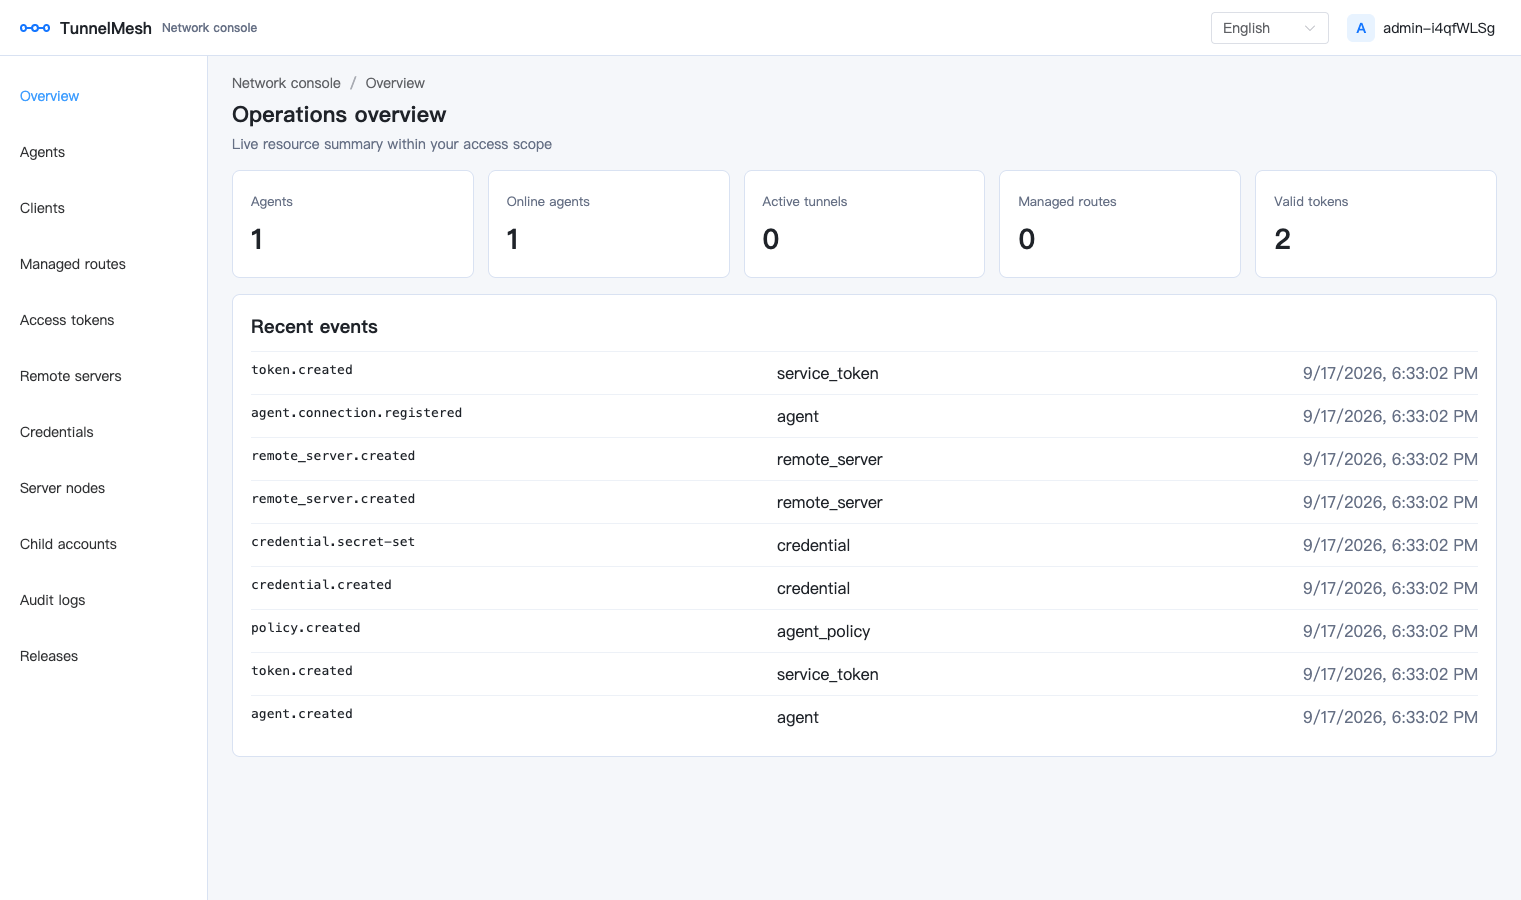
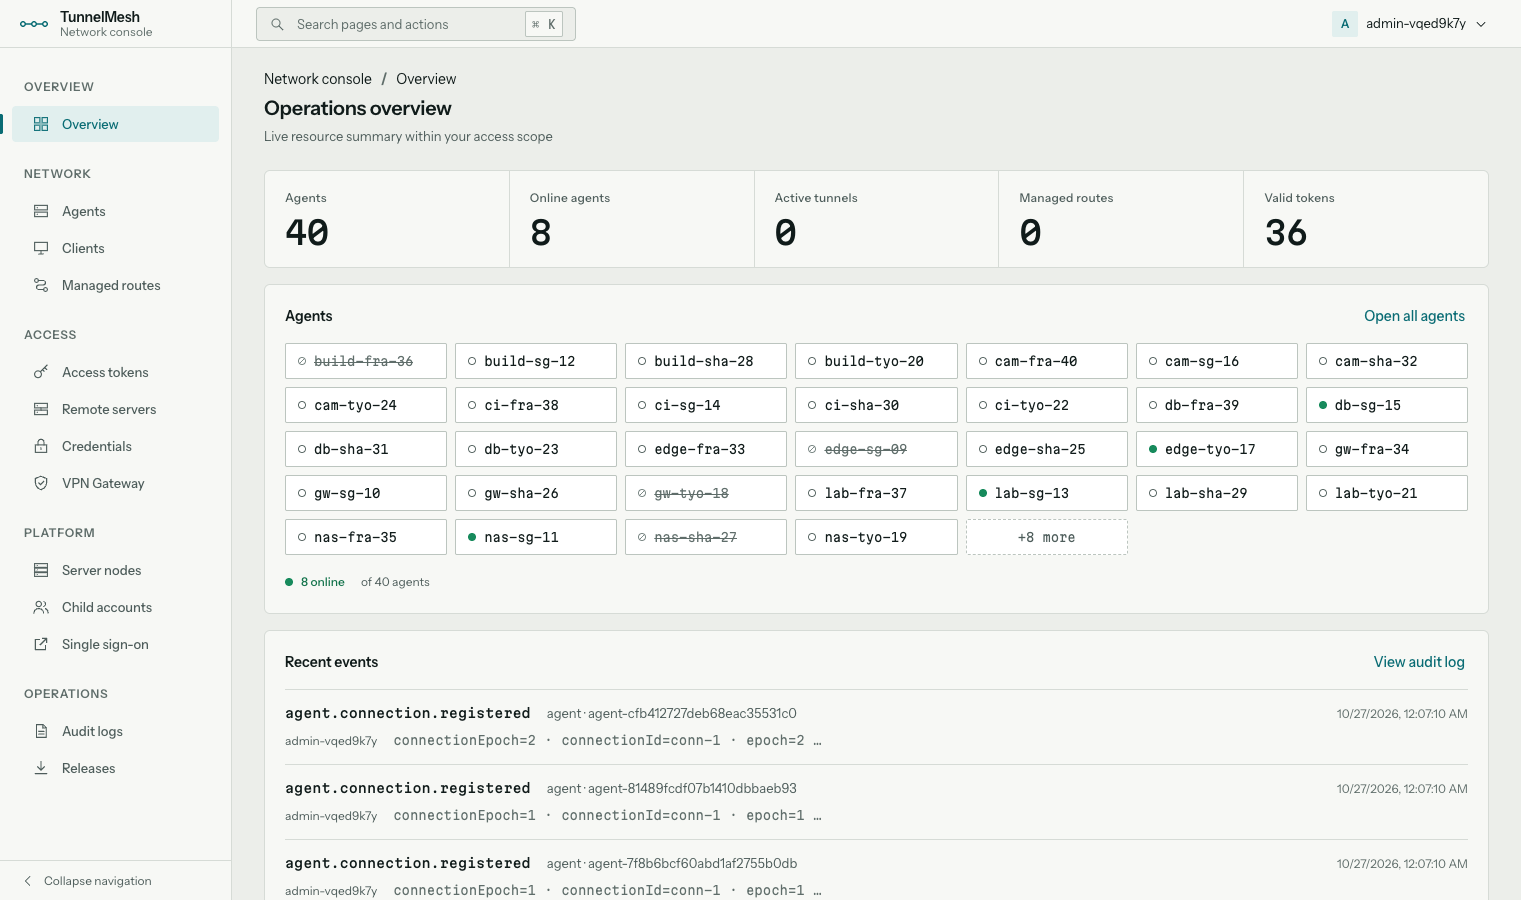
docs: record the admin console redesign and refresh screenshots
Add the plan and PR record, document theme, navigation and the command
palette in the admin guide, and retake the README screenshots and demo
gif from the new UI.

diff --git a/docs/superpowers/plans/2026-10-26-admin-console-rack-redesign.md b/docs/superpowers/plans/2026-10-26-admin-console-rack-redesign.md
@@ -1,0 +1,62 @@
+# 管理后台界面重设计「机架 Rack」实施计划
+
+> 状态：已实施（未合并）。验证与取舍见 [PR 记录](../../pull-requests/2026-10-26-admin-console-rack-redesign.md)。
+
+## 目标
+
+管理后台（`web/`，Vue 3 + Element Plus）原先 Element 默认蓝与手写蓝并存，没有图标系统和暗色主题，容器一律白底描边卡片，
+同类样式（筛选栏、分页、详情列表）在各视图里重复 5 到 14 份，另有约 35 处写死的颜色。目标是一套有明确风格的设计系统，
+并让所有页面经由令牌与全局换肤自动继承。
+
+## 决策
+
+| 项 | 决定 |
+|---|---|
+| 范围 | 设计系统 + 外壳 + 登录页 + 仪表盘 / Agents / 令牌 / 审计日志精雕；其余视图通过令牌与全局皮肤继承，只做机械改动 |
+| 主题 | 浅色 + 深色，可切换（浅色 / 深色 / 跟随系统），记住选择 |
+| 组件库 | 保留 Element Plus 做行为层（AGENTS.md），深度换肤 + 自研关键部件 |
+| 视觉 | 「机架 Rack」：亚麻灰底、石油青主色、等宽数据字体、LED 状态、配线板 |
+| 浏览器下限 | Chrome 111 / Safari 16.2 / Firefox 113（`color-mix()`） |
+| 字体 | Instrument Sans + Martian Mono，latin 子集 woff2 内置（合计 ≤140 KB，OFL，见 NOTICE），中文走系统字体 |
+
+## 任务与完成情况
+
+| # | 任务 | 结果 |
+|---|---|---|
+| 0 | 视觉验证脚手架 `web/scripts/visual-qa/`（本地 Server + 种子数据 + 无头 Chrome，5 页 × 2 主题 × 2 视口） | 完成 |
+| 1 | 令牌、字体、主题切换（`tokens-contrast` 固化 WCAG 对比度） | 完成 |
+| 2 | Element 全量换肤（`element.css`），十六进制颜色 lint 带“未迁移”名单 | 完成，名单已清空 |
+| 3 | `TmIcon` 与基础部件：StatusLed、BrandMark、CodeBlock、SecretBlock、DescriptionList | 完成 |
+| 4 | 外壳：`layouts/navigation.ts`、NavRail、TopBar、AccountMenu、ThemeToggle、CommandPalette | 完成 |
+| 5 | PageHeader、StatusTag（LED 标签）、DataState、EmptyState、ErrorState | 完成 |
+| 6 | 登录页（左侧静态机架线稿，不放虚构数据） | 完成 |
+| 7 | 仪表盘：MetricStrip + PatchPanel + 最近事件 | 完成 |
+| 8 | Agents 列表：内联筛选、IdCell、PagerBar、悬停行内操作 | 完成（见偏差） |
+| 9 | 令牌页与密钥弹窗（SecretBlock 默认遮罩） | 完成 |
+| 10 | 审计日志：已应用条件的可移除标签、行点击打开 DetailDrawer | 完成 |
+| 11 | 其余视图清扫：颜色字面量换令牌、`.page-size` 去重、终端跟随主题、移除 `@element-plus/icons-vue` | 完成 |
+| 12 | 文档与记录 | 完成；`docs/assets/*.png` 与 `demo.gif` 已用新界面重截 |
+
+## 与原计划的偏差
+
+- **Agents 页没有状态 / 启用筛选**：`GET /api/v1/agents` 只处理 `keyword`、`cursor`、`limit` 与按 `createdAt` / `updatedAt` / `id` 排序，
+  会忽略 `status` 与 `enabled`。放上去只会是不起作用的控件，所以没有做；需要的话应先扩展服务端接口。
+- **仪表盘配线板**取最新的 32 个 Agent 并在浏览器内按名称排序：接口拒绝 `sort=name`（422）。图例总数使用摘要里的 `agentsTotal`。
+- `ListPageShell` / `FilterBar` / `useListQuery` 仍未接入任何视图；本次用 `PagerBar` 与 `IdCell` 抽出了确实被重复的部分，
+  没有为了“用上”而硬接，遵守 YAGNI。
+- 十六进制 lint 之外，Element 自己注入的默认变量块里仍含 `#409eff`，被 `:root:root` 覆盖，因此不能用 `grep 409eff web/dist` 为空来验收。
+
+## 硬约束（由测试守护）
+
+- `.tm-page` 的 grid 声明原样保留；任何 `display:grid` 必须带 `grid-template-columns`；列宽之和超过 1270 的表格有 `fixed="right"`。
+- 所有 `data-test` 与被测试钉住的类名不变；`build.spec` 钉住的 Element 样式导入保留；Go 的嵌入测试要求的英文文案不改写。
+- 两个语言包键树一致，只追加键，不重排现有块。
+- 不提交、不推送。
+
+## 验证
+
+```
+cd web && npm test -- --run && npm run build && cd .. && ./scripts/verify-web-embed.sh && git diff --check
+go test ./internal/server -run TestEmbeddedWebDist
+cd web && node scripts/visual-qa/run.mjs --locale en-US   # 20 张截图，输出到 $TM_QA_OUT
+```

diff --git a/docs/pull-requests/2026-10-26-admin-console-rack-redesign.md b/docs/pull-requests/2026-10-26-admin-console-rack-redesign.md
@@ -1,0 +1,42 @@
+# 管理后台界面重设计「机架 Rack」
+
+- 标题：重做管理后台的设计系统、外壳与核心页面，新增深色主题与命令面板
+- 目标分支：`main`
+- 相关记录：[实施计划](../superpowers/plans/2026-10-26-admin-console-rack-redesign.md)
+
+## 摘要
+
+用一套设计令牌（`web/src/styles/tokens.css`）统一颜色、字号、间距、圆角与动效，浅色 / 深色两套主题，主题切换在 `<html data-theme>` 上完成，
+`index.html` 里的同步内联脚本避免首屏闪白。Element Plus 保留为行为层，由 `element.css` 全量换肤。
+外壳重做为分组导航（可折叠）、顶栏、账户菜单与命令面板；仪表盘新增指标条与 Agent 配线板；Agents、令牌、审计日志页使用共用的
+`IdCell`（中间截断、可复制）、`PagerBar`、`DetailDrawer`、`SecretBlock`；其余视图通过令牌自动继承，并清除了全部写死的颜色。
+
+## 用户影响
+
+- 新增“浅色 / 深色 / 跟随系统”主题，选择保存在浏览器（`tunnelmesh_theme`）；WebSSH 终端跟随主题。
+- 语言切换与退出移入右上角账户菜单；侧栏分组、可折叠（`[` 键），折叠状态保存在浏览器（`tunnelmesh_nav_collapsed`）。
+- `Ctrl/⌘ + K` 打开命令面板，只搜导航与少量操作。
+- 令牌密钥弹窗默认遮罩，可显示与复制，仍只显示一次。
+- 审计日志行点击打开右侧抽屉，已应用的筛选条件以可移除标签显示。
+- 浏览器下限提高到 Chrome 111 / Safari 16.2 / Firefox 113（`color-mix()`）。
+- 无接口、配置或数据库变更；Go 侧只有嵌入的前端产物变化。
+
+## 依赖与许可
+
+- 新增内置字体 Instrument Sans、Martian Mono（latin 子集，合计约 54 KB，SIL OFL 1.1），许可证文本在 `web/src/assets/fonts/`，已写入 `NOTICE`。
+- 移除未使用的 `@element-plus/icons-vue`。
+
+## 验证
+
+- `npm test -- --run`：60 个文件 / 467 个用例通过（新增主题、令牌对比度、字体体积、Element 皮肤、图标、基础部件、导航、命令面板、
+  配线板、列表部件、终端主题等测试）；`npm run build`、`./scripts/verify-web-embed.sh`、`go test ./internal/server -run TestEmbeddedWebDist` 通过。
+- 视觉：`web/scripts/visual-qa/` 对 5 个页面 × 2 主题 × 2 视口截图并逐张评审。
+- 过程中发现并修正：Agent 列表接口拒绝 `sort=name`、忽略 `status` / `enabled`（见计划“偏差”），已加回归测试。
+
+## 回滚
+
+纯前端改动：回退本分支提交并重新 `npm run build` 同步嵌入产物即可；浏览器里遗留的 `tunnelmesh_theme` / `tunnelmesh_nav_collapsed` 键无副作用。
+
+## 未完成
+
+- 无。`docs/assets/` 已重截（`demo.gif` 为五张静态截图轮播）；WebSSH / SFTP e2e 已通过（`TM_E2E_LOCALE=en-US` 可指定界面语言，并修复了英文界面下指纹确认按钮匹配不到的问题）。

diff --git a/docs/pull-requests/README.md b/docs/pull-requests/README.md
@@ -6,12 +6,13 @@
 内容包含标题、目标分支、摘要、用户影响、API/Schema/配置影响、安全影响、测试证据、
 发布与回滚步骤、Reviewer 关注点和集成状态。
 
-共 56 份记录，按日期倒序排列。
+共 57 份记录，按日期倒序排列。
 
 ## 记录清单
 
 | 日期 | PR 记录 | 关联计划 | 关联规格 / ADR |
 | --- | --- | --- | --- |
+| 2026-10-26 | [管理后台界面重设计「机架 Rack」](2026-10-26-admin-console-rack-redesign.md) | [计划：管理后台界面重设计「机架 Rack」](../superpowers/plans/2026-10-26-admin-console-rack-redesign.md) | — |
 | 2026-10-25 | [Client Agent 角色融合与自动注册](2026-10-25-client-agent-role.md) | — | — |
 | 2026-10-25 | [Client/Agent 自动升级、失败回滚与进程守护](2026-10-25-client-agent-auto-update.md) | [计划：Client/Agent 自动升级、失败回滚与进程守护](../superpowers/plans/2026-10-25-client-agent-auto-update.md) | [ADR：Constrained self-update and process super…](../architecture/adr/0003-constrained-self-update-and-supervision.md) |
 | 2026-10-24 | [后台管理列表体验与 Client/Agent 链路加固](2026-10-24-admin-console-client-resilience.md) | [计划：Admin Console List Redesign](../superpowers/plans/2026-10-24-admin-console-redesign.md)<br>[计划：Client/Agent 便携性与容错加固](../superpowers/plans/2026-10-24-client-agent-portability-resilience.md) | — |

diff --git a/docs/superpowers/plans/README.md b/docs/superpowers/plans/README.md
@@ -8,12 +8,13 @@
 [AGENTS.md](../../../AGENTS.md)，文档组织约定见
 [文档规范](../../development/documentation.md)。
 
-共 73 份计划，按日期倒序排列。
+共 74 份计划，按日期倒序排列。
 
 ## 计划清单
 
 | 日期 | 实施计划 | 关联规格 | 关联 PR / ADR |
 | --- | --- | --- | --- |
+| 2026-10-26 | [管理后台界面重设计「机架 Rack」实施计划](2026-10-26-admin-console-rack-redesign.md) | — | [PR：管理后台界面重设计「机架 Rack」](../../pull-requests/2026-10-26-admin-console-rack-redesign.md) |
 | 2026-10-25 | [Client/Agent 角色融合与自动注册实施计划](2026-10-25-client-agent-role-auto-registration.md) | — | [PR：Client Agent 角色融合与自动注册](../../pull-requests/2026-10-25-client-agent-role.md) |
 | 2026-10-25 | [Client/Agent 自动升级、失败回滚与进程守护实施计划](2026-10-25-client-agent-auto-update.md) | — | [PR：Client/Agent 自动升级、失败回滚与进程守护](../../pull-requests/2026-10-25-client-agent-auto-update.md)<br>[ADR：Constrained self-update and process super…](../../architecture/adr/0003-constrained-self-update-and-supervision.md) |
 | 2026-10-24 | [Client/Agent 便携性与容错加固实施计划](2026-10-24-client-agent-portability-resilience.md) | — | — |

diff --git a/docs/assets/README.md b/docs/assets/README.md
@@ -1,6 +1,6 @@
 # Visual assets
 
-All screenshots come from the TunnelMesh admin console running locally from commit `b235ec4` on `2026-09-17`, with the UI locale set to `en-US`.
+All screenshots come from the TunnelMesh admin console running locally from the `codex/admin-console-rack-redesign` branch on `2026-10-27`, with the UI locale set to `en-US`.
 
 | Asset | View | Dimensions | Redaction check |
 | --- | --- | --- | --- |
